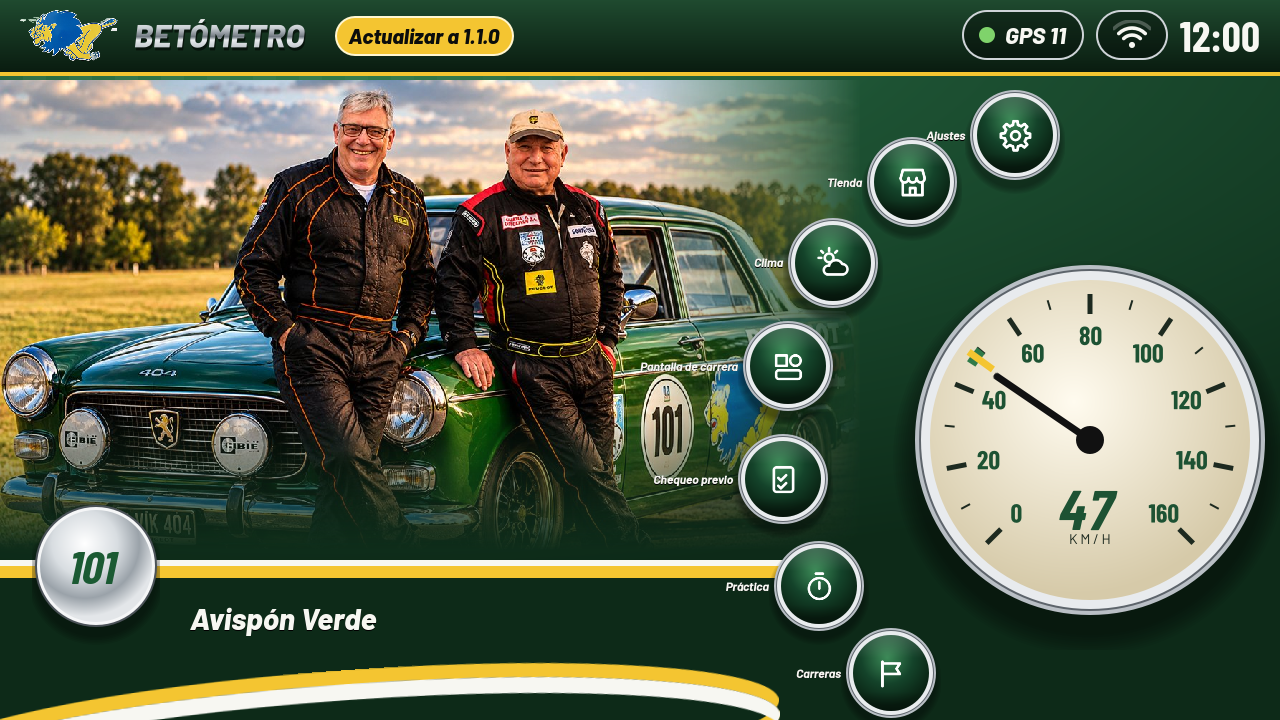
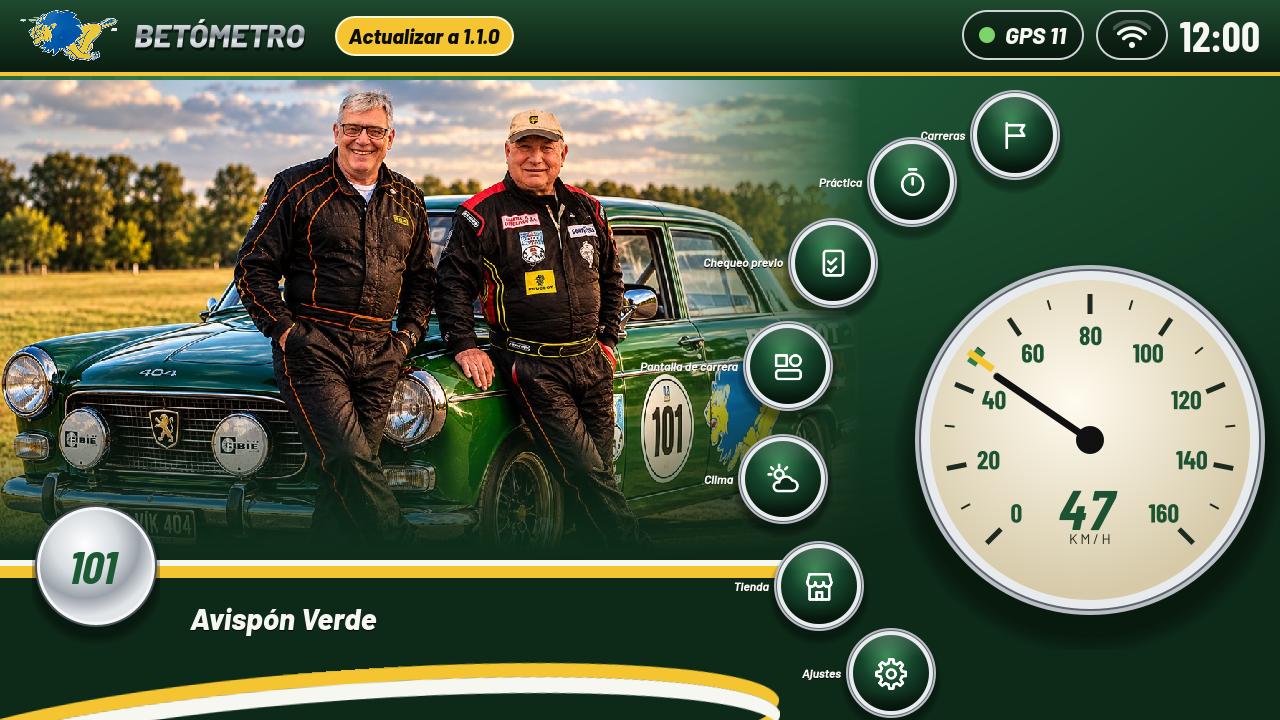
Inicio del velocímetro: orden invertido (Carreras arriba, Ajustes abajo) [skip ci]
En las dos posiciones. En la parada, botones de 96 y 21,5° entre uno y otro
para que los nombres largos no queden pisados.

Claude-Session: https://claude.ai/code/session_01Y6ZcPhV5b3EYbp16y5p5kD

diff --git a/app/qml/pantallas/Inicio.qml b/app/qml/pantallas/Inicio.qml
@@ -79,10 +79,11 @@ Item {
             required property var modelData
             required property int index
             // Siete botones en el arco (con la Tienda, 08/11/2026): con aire entre botones (Matías: «muy apretados»), en un arco un poco más largo
-            readonly property real ang: (raiz.h ? 230 - index * 21 : 150 + index * 20) * Math.PI / 180
+            // Carreras arriba y Ajustes abajo (Matías, 08/11/2026: «invertí todos»)
+            readonly property real ang: (raiz.h ? 104 + index * 21 : 272 - index * 21.5) * Math.PI / 180
             readonly property real cx: raiz.h ? 1090 + Math.cos(ang) * 310 : 629 + Math.cos(ang) * 397
             readonly property real cy: raiz.h ? 436 - Math.sin(ang) * 310 : 918 + Math.sin(ang) * 397
-            d: raiz.h ? 76 : 104   // 76 con siete botones (antes 86 con seis), en un arco más grande
+            d: raiz.h ? 76 : 96   // con siete botones (antes 86 y 104 con seis), en un arco más grande
             x: cx - d / 2; y: cy - d / 2
             icono: modelData.icono
             texto: modelData.texto
